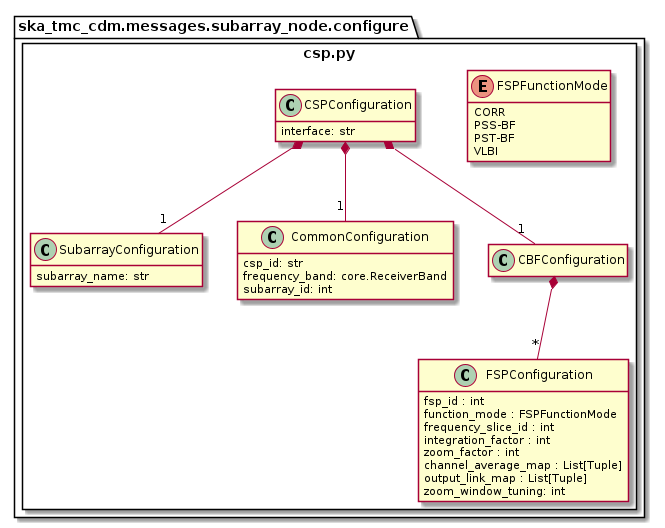
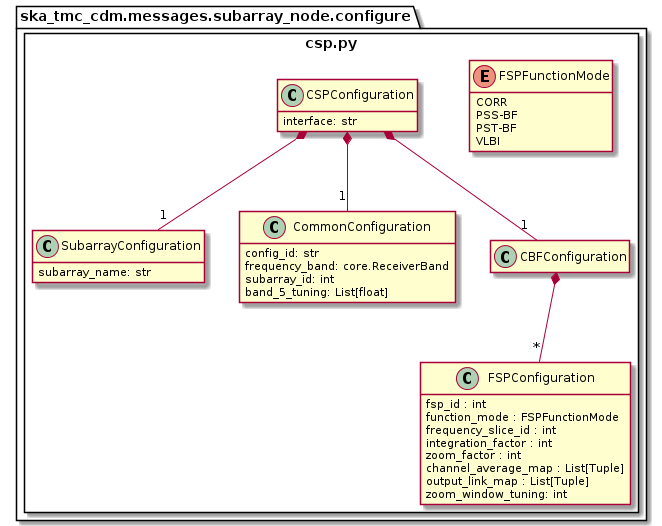
AT2-855 added support of csp.common.band_5_tuning in MID configure request

diff --git a/tests/unit/ska_tmc_cdm/messages/subarray_node/configure/test_csp.py b/tests/unit/ska_tmc_cdm/messages/subarray_node/configure/test_csp.py
@@ -19,7 +19,6 @@ from ska_tmc_cdm.messages.subarray_node.configure.csp import (
     SubarrayConfiguration,
 )
 
-
 CONSTRUCTOR_ARGS = dict(
     interface="interface",
     subarray_config=SubarrayConfiguration(
@@ -28,11 +27,12 @@ CONSTRUCTOR_ARGS = dict(
     common_config=CommonConfiguration(
         config_id="config_id",
         frequency_band=ReceiverBand.BAND_1,
-        subarray_id=1
+        subarray_id=1,
+        band_5_tuning=[5.85, 7.25]
     ),
     cbf_config=CBFConfiguration(
         fsp_configs=[
-           FSPConfiguration(1, FSPFunctionMode.CORR, 1, 10, 0)
+            FSPConfiguration(1, FSPFunctionMode.CORR, 1, 10, 0)
         ]
     ),
     pss_config=None,
@@ -48,12 +48,14 @@ def test_common_configuration_equals():
     config_id = "sbi-mvp01-20200325-00001-science_A"
     frequency_band = ReceiverBand.BAND_1
     subarray_id = 1
+    band_5_tuning = [5.85, 7.25]
 
-    config1 = CommonConfiguration(config_id, frequency_band, subarray_id)
-    config2 = CommonConfiguration(config_id, frequency_band, subarray_id)
+    config1 = CommonConfiguration(config_id, frequency_band, subarray_id, band_5_tuning)
+    config2 = CommonConfiguration(config_id, frequency_band, subarray_id, band_5_tuning)
     assert config1 == config2
 
-    assert config1 != CommonConfiguration(config_id, ReceiverBand.BAND_2, subarray_id)
+    assert config1 != CommonConfiguration(config_id, ReceiverBand.BAND_2, subarray_id, band_5_tuning)
+    assert config1 != CommonConfiguration(config_id, frequency_band, 2, band_5_tuning)
     assert config1 != CommonConfiguration(config_id, frequency_band, 2)
 
 
@@ -65,7 +67,8 @@ def test_common_configuration_not_equal_to_other_objects():
     config_id = "sbi-mvp01-20200325-00001-science_A"
     frequency_band = ReceiverBand.BAND_1
     subarray_id = 1
-    config = CommonConfiguration(config_id, frequency_band, subarray_id)
+    band_5_tuning = [5.85, 7.25]
+    config = CommonConfiguration(config_id, frequency_band, subarray_id, band_5_tuning)
     assert config != 1
 
 
@@ -192,7 +195,8 @@ def test_csp_configuration_equals():
         common_config=CommonConfiguration(
             config_id="foo",
             frequency_band=ReceiverBand.BAND_1,
-            subarray_id=1
+            subarray_id=1,
+            band_5_tuning=[5.85, 7.25]
         ),
         cbf_config=CBFConfiguration(
             fsp_configs=[

diff --git a/src/ska_tmc_cdm/schemas/subarray_node/configure/csp.py b/src/ska_tmc_cdm/schemas/subarray_node/configure/csp.py
@@ -47,6 +47,7 @@ class CommonConfigurationSchema(Schema):
     config_id = fields.String(data_key="config_id", required=True)
     frequency_band = fields.String(data_key="frequency_band", required=True)
     subarray_id = fields.Integer(data_key="subarray_id", required=True)
+    band_5_tuning = fields.List(fields.Float, data_key="band_5_tuning")
 
     @pre_dump
     def convert(
@@ -66,6 +67,18 @@ class CommonConfigurationSchema(Schema):
             copied.frequency_band = common_configuration.frequency_band.value
         return copied
 
+    @post_dump
+    def filter_nulls(self, data, **_):  # pylint: disable=no-self-use
+        """
+        Filter out null values from JSON.
+
+        :param data: Marshmallow-provided dict containing parsed object values
+        :param _: kwargs passed by Marshmallow
+        :return: dict suitable for FSP configuration
+        """
+        result = {k: v for k, v in data.items() if v is not None}
+        return result
+
     @post_load
     def create(self, data, **_):  # pylint: disable=no-self-use
         """
@@ -79,8 +92,9 @@ class CommonConfigurationSchema(Schema):
         frequency_band = data["frequency_band"]
         frequency_band_enum = ReceiverBand(frequency_band)
         subarray_id = data["subarray_id"]
+        band_5_tuning = data.get("band_5_tuning", None)
 
-        return CommonConfiguration(config_id, frequency_band_enum, subarray_id)
+        return CommonConfiguration(config_id, frequency_band_enum, subarray_id, band_5_tuning)
 
 
 @CODEC.register_mapping(FSPConfiguration)

diff --git a/src/ska_tmc_cdm/messages/subarray_node/configure/csp.py b/src/ska_tmc_cdm/messages/subarray_node/configure/csp.py
@@ -4,7 +4,7 @@ aspects of CSP configuration that may be specified in a SubArrayNode.configure
 command.
 """
 import enum
-from typing import List, Tuple
+from typing import List, Tuple, Optional
 
 from . import core
 
@@ -148,6 +148,7 @@ class CommonConfiguration:
             config_id: str,
             frequency_band: core.ReceiverBand,
             subarray_id: int = None,
+            band_5_tuning: Optional[List[float]] = None
     ):
         """
         Create a new CSPConfiguration.
@@ -155,10 +156,12 @@ class CommonConfiguration:
         :param config_id: CSP configuration ID
         :param frequency_band: the frequency band to set
         :param subarray_id: an ID of sub-array device
+        :param band_5_tuning: band 5 receiver to set (optional)
         """
         self.config_id = config_id
         self.frequency_band = frequency_band
         self.subarray_id = subarray_id
+        self.band_5_tuning = band_5_tuning
 
     def __eq__(self, other):
         if not isinstance(other, CommonConfiguration):
@@ -167,6 +170,7 @@ class CommonConfiguration:
                 self.config_id == other.config_id
                 and self.frequency_band == other.frequency_band
                 and self.subarray_id == other.subarray_id
+                and self.band_5_tuning == other.band_5_tuning
         )
 
 

diff --git a/tests/unit/ska_tmc_cdm/schemas/test_codec.py b/tests/unit/ska_tmc_cdm/schemas/test_codec.py
@@ -151,7 +151,8 @@ VALID_CSP_SCHEMA = """{
     "common": {
       "config_id": "sbi-mvp01-20200325-00001-science_A",
       "frequency_band": "1",
-      "subarray_id": 1
+      "subarray_id": 1,
+      "band_5_tuning": [5.85, 7.25]
     },
     "cbf": {
       "fsp": [
@@ -292,7 +293,7 @@ def csp_config_for_test():
 
     cbf_config = CBFConfiguration([fsp_config_1, fsp_config_2])
     csp_subarray_config = SubarrayConfiguration('science period 23')
-    csp_common_config = CommonConfiguration(config_id, ReceiverBand.BAND_1, 1)
+    csp_common_config = CommonConfiguration(config_id, ReceiverBand.BAND_1, 1, [5.85, 7.25])
     csp_config = CSPConfiguration(
         interface="https://schema.skao.int/ska-csp-configure/2.0",
         subarray_config=csp_subarray_config,

diff --git a/tests/unit/ska_tmc_cdm/schemas/subarray_node/configure/test_csp.py b/tests/unit/ska_tmc_cdm/schemas/subarray_node/configure/test_csp.py
@@ -76,7 +76,8 @@ def test_marshall_cspconfiguration_does_not_modify_original():
         common_config=CommonConfiguration(
             config_id="config_id",
             frequency_band=ReceiverBand.BAND_1,
-            subarray_id=1
+            subarray_id=1,
+            band_5_tuning=[5.85, 7.25]
         ),
         cbf_config=CBFConfiguration(
             fsp_configs=[
